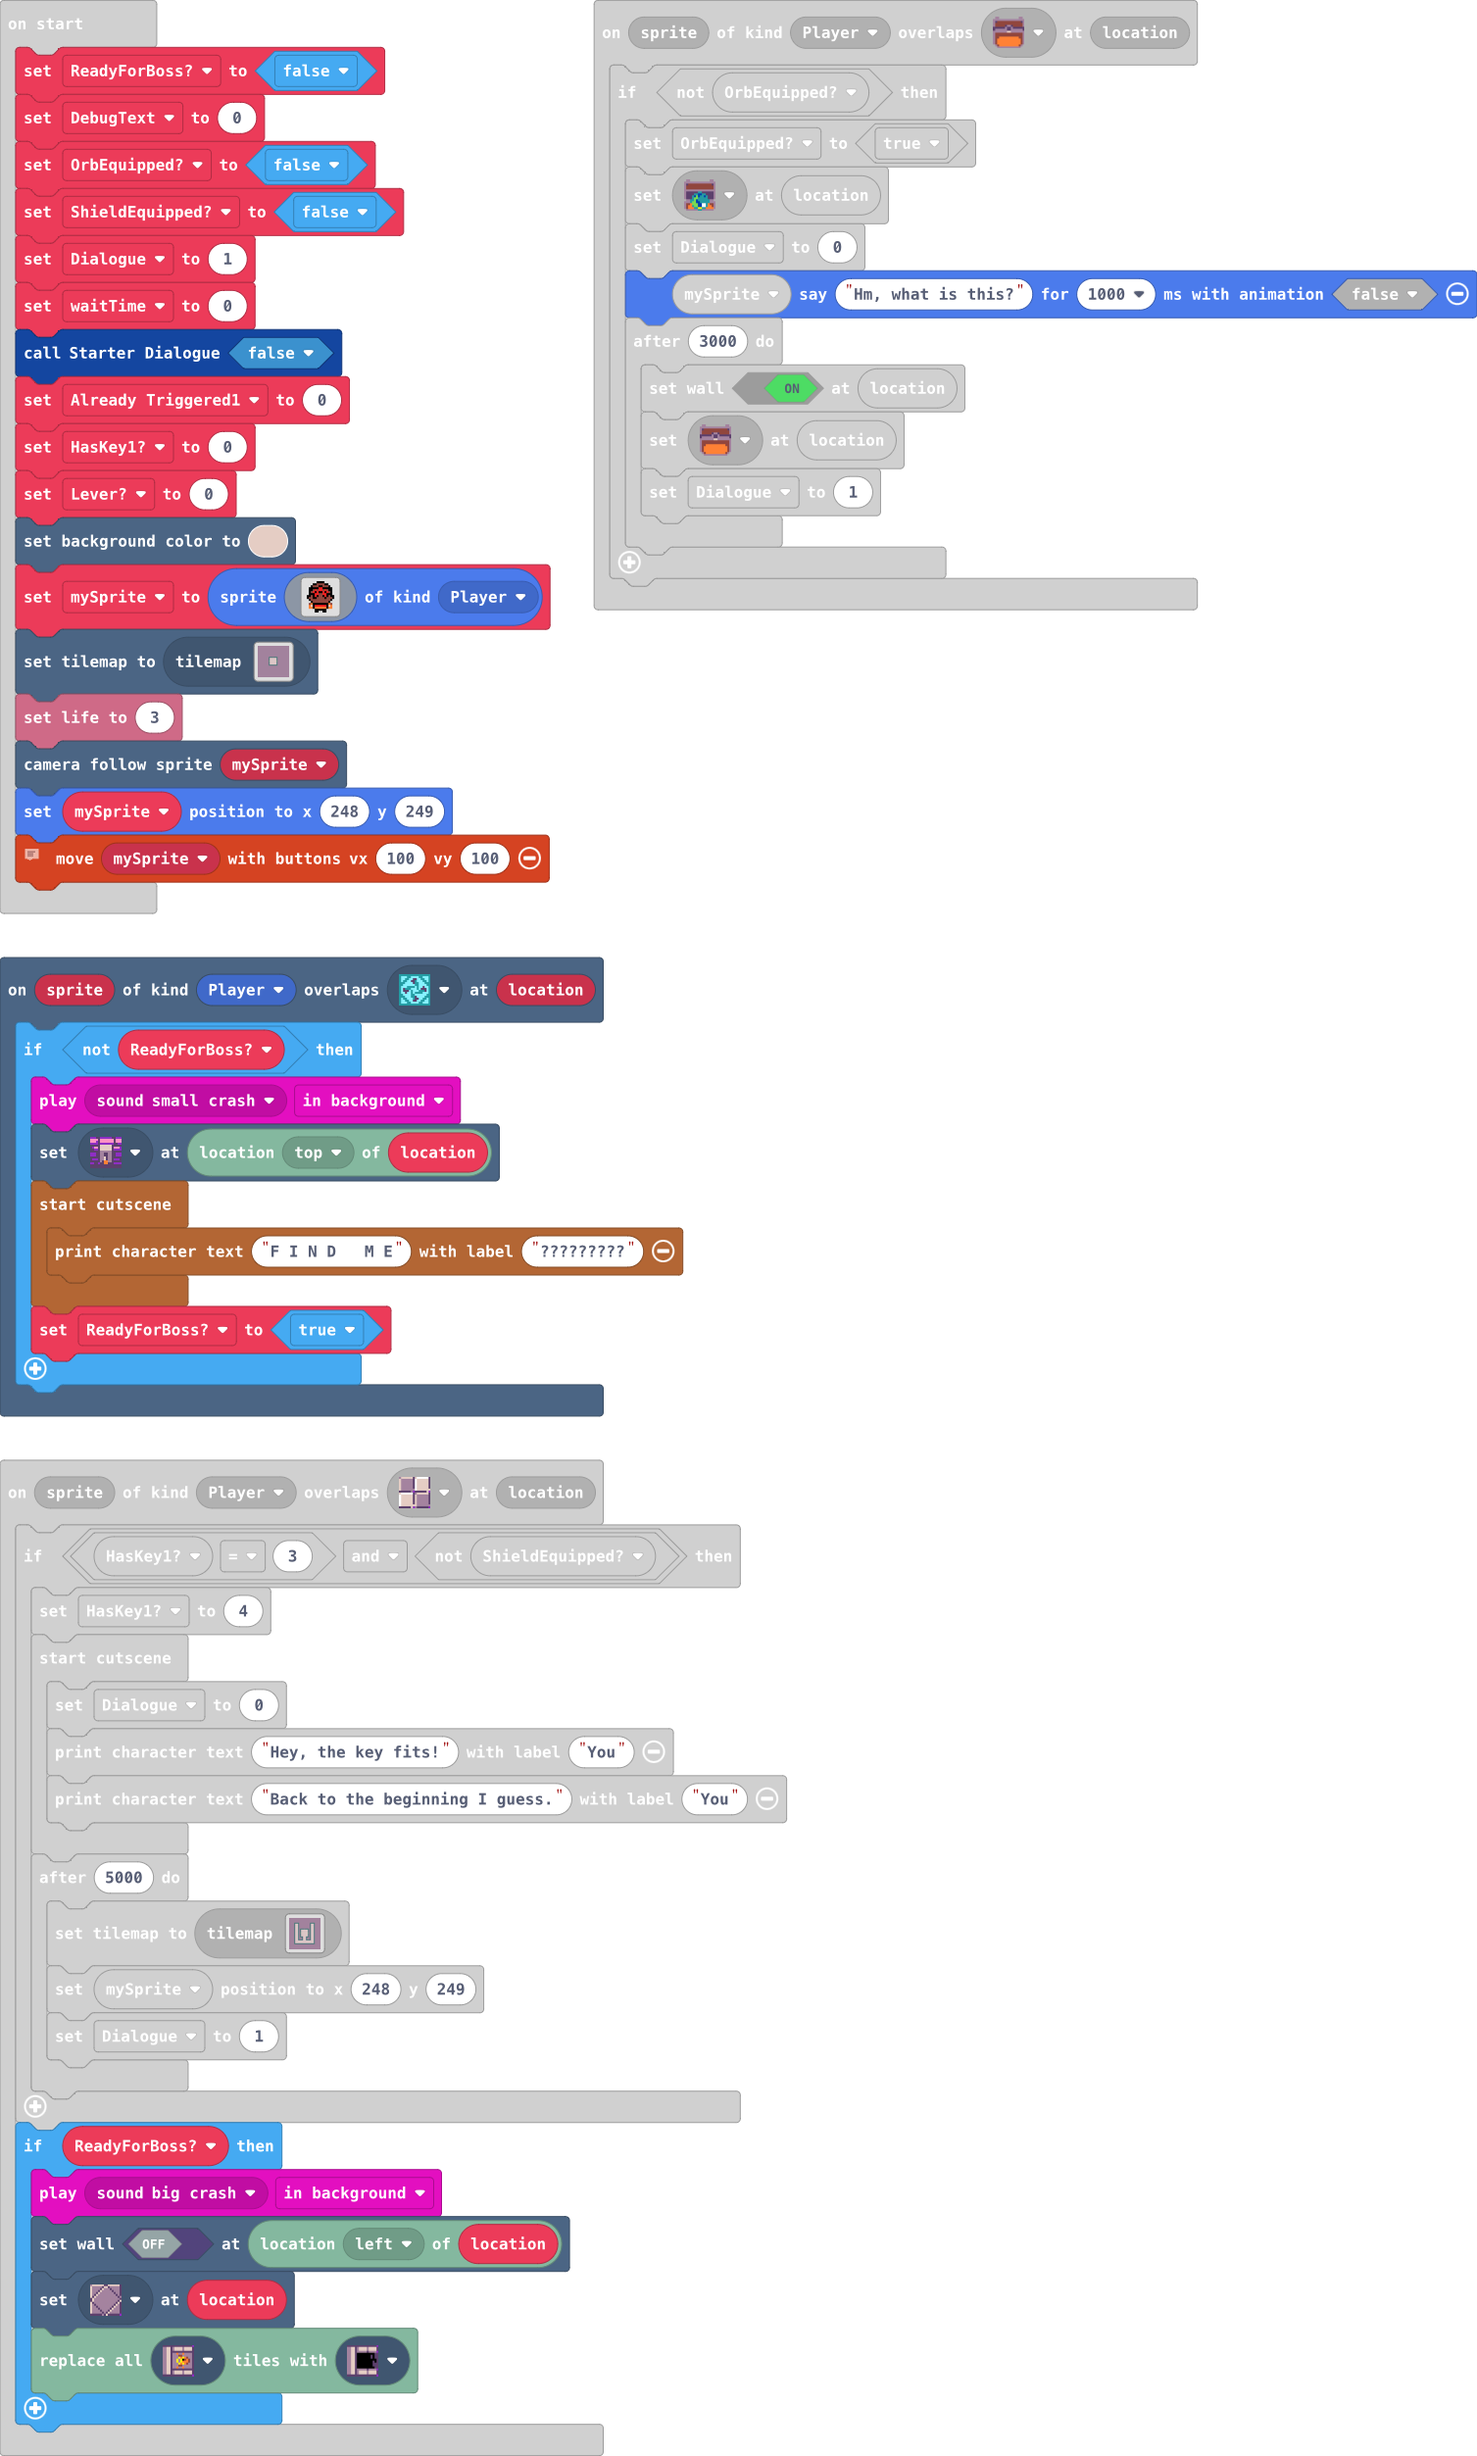
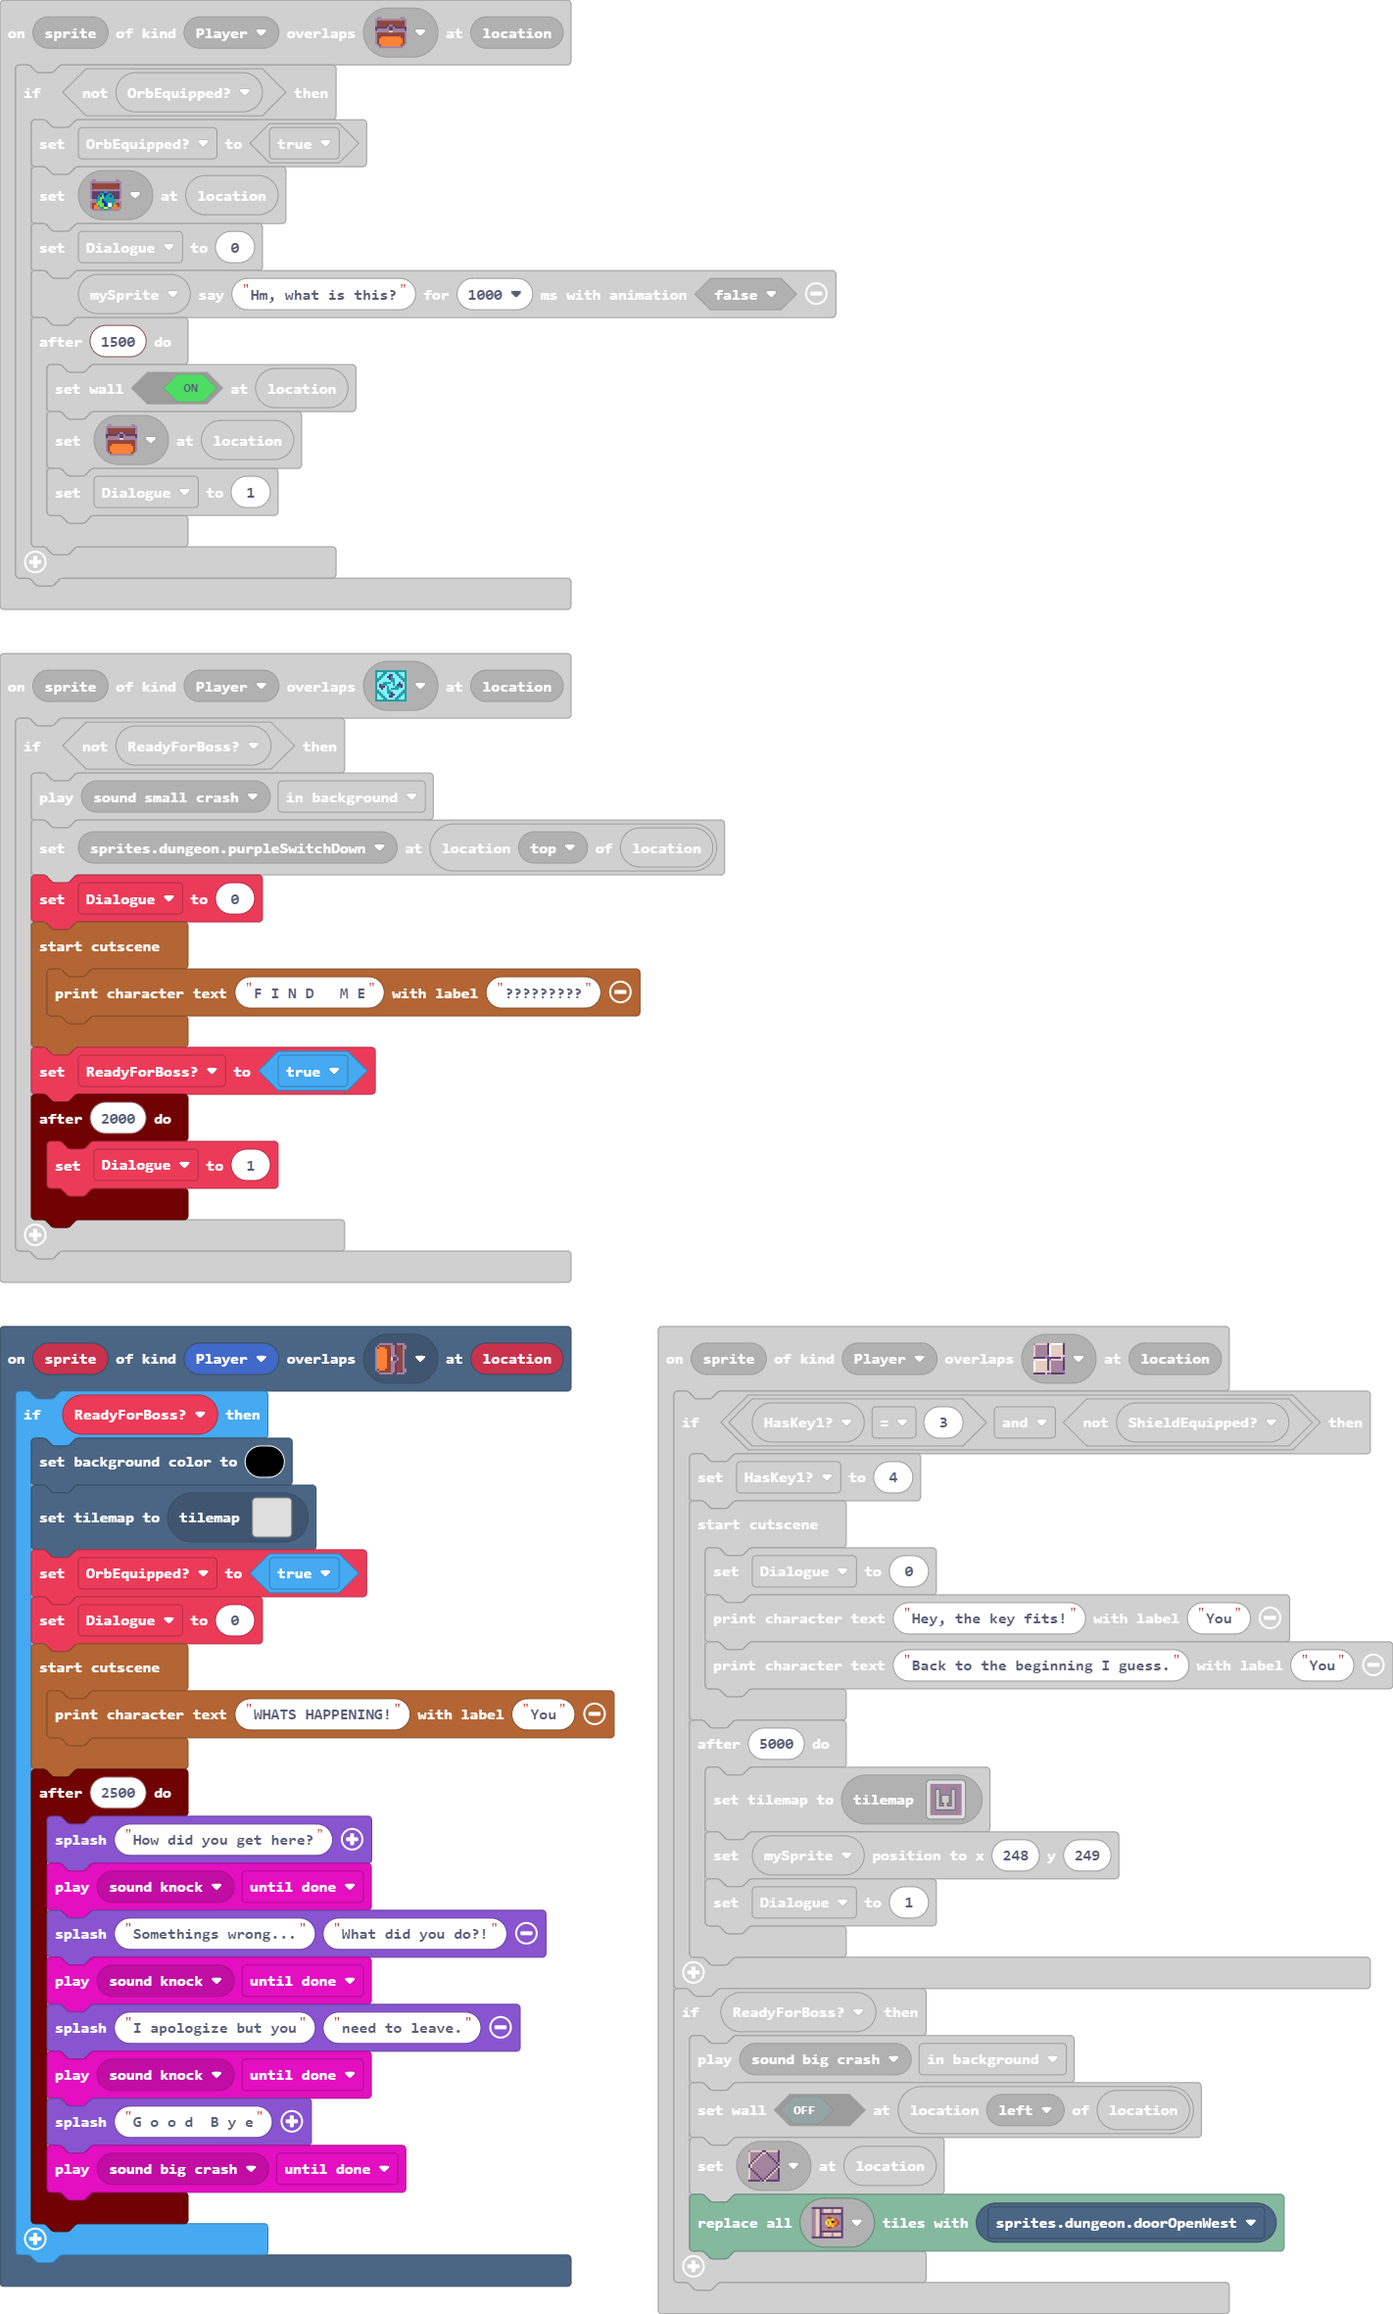
cleaned up some code in prep for the boss fight :D

diff --git a/tilemap.g.ts b/tilemap.g.ts
@@ -198,6 +198,25 @@ namespace myTiles {
 ..22222222222222........2..2.2..
 ........................2..2.2..
 `, [myTiles.transparency16,sprites.dungeon.floorLight2,sprites.dungeon.purpleOuterNorth0,sprites.dungeon.purpleOuterNorth1,sprites.dungeon.purpleOuterEast0,sprites.dungeon.purpleOuterNorthEast,sprites.dungeon.purpleOuterWest0,sprites.dungeon.purpleInnerSouthWest,sprites.dungeon.purpleInnerSouthEast,sprites.dungeon.purpleOuterSouthWest,sprites.dungeon.purpleOuterSouth1,sprites.dungeon.purpleOuterNorthWest,sprites.dungeon.purpleInnerNorthWest,sprites.dungeon.purpleOuterSouthEast,sprites.dungeon.purpleOuterNorth2,sprites.dungeon.purpleOuterWest2,sprites.dungeon.darkGroundCenter,sprites.dungeon.purpleOuterWest1,sprites.dungeon.chestClosed,myTiles.tile5,sprites.dungeon.floorMixed,sprites.dungeon.purpleInnerNorthEast], TileScale.Sixteen);
+            case "level8":
+            case "level8":return tiles.createTilemap(hex`1000100000000000000000000000000000000000000000000000000000000000000000000000000000000000000000000000000000000000000000000000000000000000000000000000000000000000000000000000000000000000000000000000000000000000000000000000000000000000000000000000000000000000000000000000000000000000000000000000000000000000000000000000000000000000000000000000000000000000000000000000000000000000000000000000000000000000000000000000000000000000000000000000000000000000000000000000000000000000000000000000000000000000000000000000000000000000`, img`
+. . . . . . . . . . . . . . . . 
+. . . . . . . . . . . . . . . . 
+. . . . . . . . . . . . . . . . 
+. . . . . . . . . . . . . . . . 
+. . . . . . . . . . . . . . . . 
+. . . . . . . . . . . . . . . . 
+. . . . . . . . . . . . . . . . 
+. . . . . . . . . . . . . . . . 
+. . . . . . . . . . . . . . . . 
+. . . . . . . . . . . . . . . . 
+. . . . . . . . . . . . . . . . 
+. . . . . . . . . . . . . . . . 
+. . . . . . . . . . . . . . . . 
+. . . . . . . . . . . . . . . . 
+. . . . . . . . . . . . . . . . 
+. . . . . . . . . . . . . . . . 
+`, [myTiles.transparency16], TileScale.Sixteen);
             case "level7":
             case "level7":return tiles.createTilemap(hex`1000100000000000000000000000000000000000000000000000000000000000000000000000000000000000000000000000000000000000000000000000000000000000000000000000000000000000000000000000000000000000000000000000000000000000000000000000000000000000000000000000000000000000000000000000000000000000000000000000000000000000000000000000000000000000000000000000000000000000000000000000000000000000000000000000000000000000000000000000000000000000000000000000000000000000000000000000000000000000000000000000000000000000000000000000000000000000`, img`
 . . . . . . . . . . . . . . . . 
@@ -218,7 +237,7 @@ namespace myTiles {
 . . . . . . . . . . . . . . . . 
 `, [myTiles.transparency16], TileScale.Sixteen);
             case "level11":
[2 lines of base64/hex data omitted]
 .............................222222222222222222222222222........
 .............................2.........................2........
 .............................2.........................2........
@@ -283,7 +302,7 @@ namespace myTiles {
 ................................................................
 ................................................................
 ................................................................
-`, [myTiles.transparency16,myTiles.tile2,sprites.dungeon.darkGroundCenter,sprites.dungeon.purpleOuterNorthWest,sprites.dungeon.purpleOuterWest0,sprites.dungeon.purpleOuterWest1,sprites.dungeon.purpleOuterSouthEast,sprites.dungeon.purpleOuterNorth1,sprites.dungeon.floorLight2,sprites.dungeon.purpleOuterSouth1,sprites.dungeon.purpleOuterWest2,sprites.dungeon.purpleInnerNorthWest,sprites.dungeon.purpleOuterEast0,sprites.dungeon.purpleOuterSouthWest,sprites.dungeon.purpleInnerSouthEast,sprites.dungeon.purpleOuterNorth2,sprites.dungeon.purpleOuterEast2,sprites.dungeon.purpleInnerSouthWest,sprites.dungeon.purpleInnerNorthEast,sprites.dungeon.purpleOuterNorthEast,sprites.dungeon.purpleOuterSouth2,myTiles.tile6,sprites.dungeon.doorLockedWest,sprites.dungeon.floorMixed,myTiles.tile7,sprites.dungeon.purpleSwitchUp,sprites.dungeon.collectibleInsignia,sprites.dungeon.purpleSwitchDown,sprites.dungeon.doorOpenWest], TileScale.Sixteen);
+`, [myTiles.transparency16,myTiles.tile2,sprites.dungeon.darkGroundCenter,sprites.dungeon.purpleOuterNorthWest,sprites.dungeon.purpleOuterWest0,sprites.dungeon.purpleOuterWest1,sprites.dungeon.purpleOuterSouthEast,sprites.dungeon.purpleOuterNorth1,sprites.dungeon.floorLight2,sprites.dungeon.purpleOuterSouth1,sprites.dungeon.purpleOuterWest2,sprites.dungeon.purpleInnerNorthWest,sprites.dungeon.purpleOuterEast0,sprites.dungeon.purpleOuterSouthWest,sprites.dungeon.purpleInnerSouthEast,sprites.dungeon.purpleOuterNorth2,sprites.dungeon.purpleOuterEast2,sprites.dungeon.purpleInnerSouthWest,sprites.dungeon.purpleInnerNorthEast,sprites.dungeon.purpleOuterNorthEast,sprites.dungeon.purpleOuterSouth2,myTiles.tile6,sprites.dungeon.doorLockedWest,sprites.dungeon.floorMixed,myTiles.tile7,sprites.dungeon.purpleSwitchUp,sprites.dungeon.collectibleInsignia], TileScale.Sixteen);
         }
         return null;
     })

diff --git a/main.ts b/main.ts
@@ -780,13 +780,34 @@ function Animation_Handler () {
         }
     }
 }
+scene.onOverlapTile(SpriteKind.Player, assets.tile`myTile4`, function (sprite, location) {
+    if (ReadyForBoss) {
+        scene.setBackgroundColor(15)
+        tiles.setCurrentTilemap(tilemap`level7`)
+        OrbEquipped = true
+        Dialogue = 0
+        story.startCutscene(function () {
+            story.printCharacterText("WHATS HAPPENING!", "You")
+        })
+        timer.after(2500, function () {
+            game.splash("How did you get here?")
+            music.play(music.melodyPlayable(music.knock), music.PlaybackMode.UntilDone)
+            game.splash("Somethings wrong...", "What did you do?!")
+            music.play(music.melodyPlayable(music.knock), music.PlaybackMode.UntilDone)
+            game.splash("I apologize but you", "need to leave.")
+            music.play(music.melodyPlayable(music.knock), music.PlaybackMode.UntilDone)
+            game.splash("G o o d  B y e")
+            music.play(music.melodyPlayable(music.bigCrash), music.PlaybackMode.UntilDone)
+        })
+    }
+})
 scene.onOverlapTile(SpriteKind.Player, assets.tile`myTile3`, function (sprite, location) {
     if (!(OrbEquipped)) {
         OrbEquipped = true
         tiles.setTileAt(location, assets.tile`chestOpened1`)
         Dialogue = 0
         mySprite.sayText("Hm, what is this?", 1000, false)
-        timer.after(3000, function () {
+        timer.after(1500, function () {
             tiles.setWallAt(location, true)
             tiles.setTileAt(location, assets.tile`myTile3`)
             Dialogue = 1
@@ -920,10 +941,14 @@ scene.onOverlapTile(SpriteKind.Player, sprites.dungeon.collectibleInsignia, func
     if (!(ReadyForBoss)) {
         music.play(music.melodyPlayable(music.smallCrash), music.PlaybackMode.InBackground)
         tiles.setTileAt(tiles.locationInDirection(location, CollisionDirection.Top), sprites.dungeon.purpleSwitchDown)
+        Dialogue = 0
         story.startCutscene(function () {
             story.printCharacterText("F I N D   M E", "?????????")
         })
         ReadyForBoss = true
+        timer.after(2000, function () {
+            Dialogue = 1
+        })
     }
 })
 let lastDirection = 0
